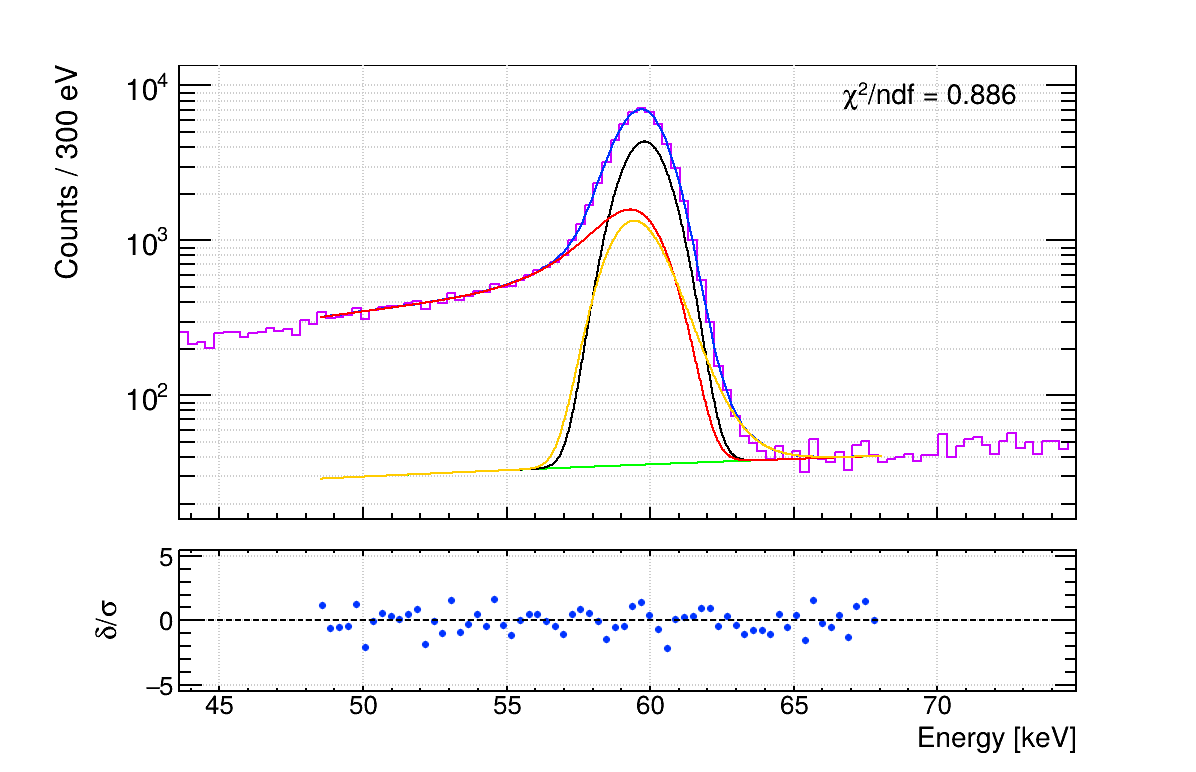
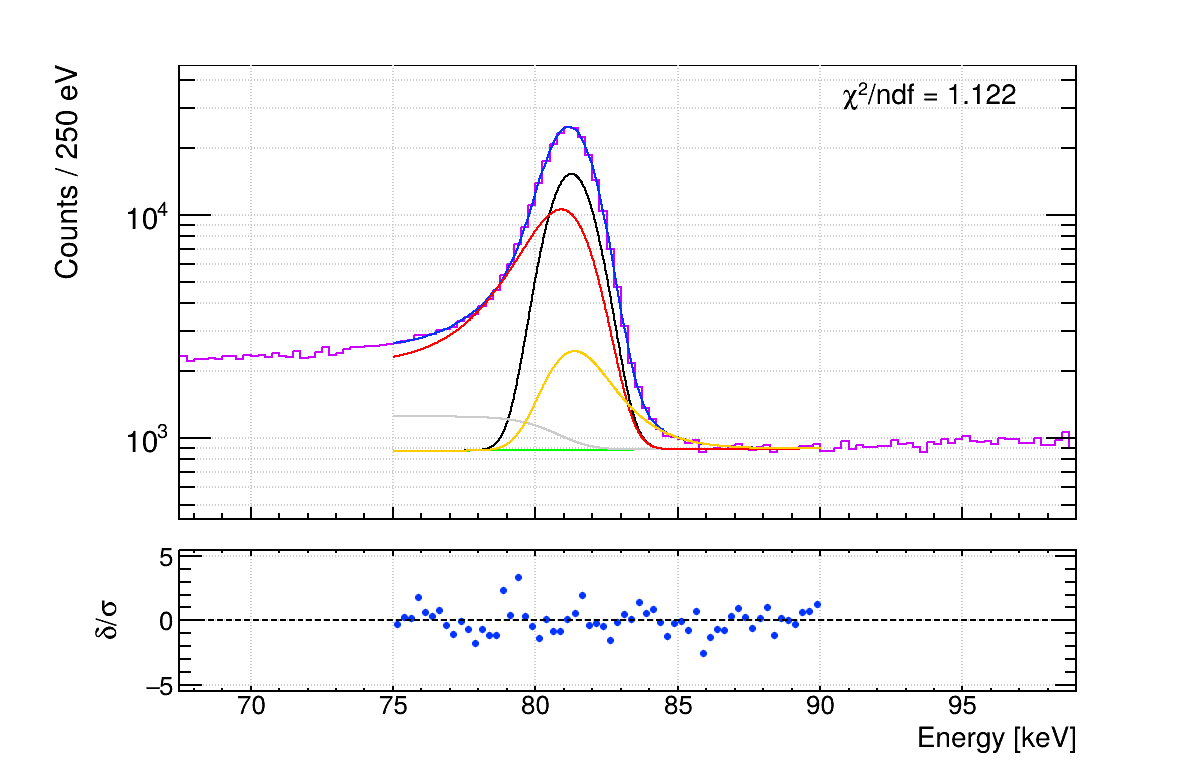
add file name info to gui

diff --git a/src/FittingUtils.cpp b/src/FittingUtils.cpp
@@ -1562,7 +1562,8 @@ FitResult FittingUtils::FitSinglePeak(const TString input_name,
         Bool_t was_batch = gROOT->IsBatch();
         gROOT->SetBatch(kFALSE);
         if (LaunchInteractiveFitEditor(working_hist_, fit_function_,
-                                       fit_range_low_, fit_range_high_, 1)) {
+                                       fit_range_low_, fit_range_high_, 1,
+                                       peak_name + " / " + input_name)) {
           // Sync range back in case user changed it
           Double_t rlo_tmp, rhi_tmp;
           fit_function_->GetRange(rlo_tmp, rhi_tmp);
@@ -2081,7 +2082,8 @@ FitResult FittingUtils::FitDoublePeak(const TString input_name,
         Bool_t was_batch = gROOT->IsBatch();
         gROOT->SetBatch(kFALSE);
         if (LaunchInteractiveFitEditor(working_hist_, fit_function_,
-                                       fit_range_low_, fit_range_high_, 2)) {
+                                       fit_range_low_, fit_range_high_, 2,
+                                       peak_name + " / " + input_name)) {
           Double_t rlo_tmp, rhi_tmp;
           fit_function_->GetRange(rlo_tmp, rhi_tmp);
           fit_range_low_ = rlo_tmp;
@@ -2426,7 +2428,8 @@ FitResult FittingUtils::FitDoublePeak(const TString input_name,
         Bool_t was_batch = gROOT->IsBatch();
         gROOT->SetBatch(kFALSE);
         if (LaunchInteractiveFitEditor(working_hist_, fit_function_,
-                                       fit_range_low_, fit_range_high_, 2)) {
+                                       fit_range_low_, fit_range_high_, 2,
+                                       peak_name + " / " + input_name)) {
           Double_t rlo_tmp, rhi_tmp;
           fit_function_->GetRange(rlo_tmp, rhi_tmp);
           fit_range_low_ = rlo_tmp;
@@ -2799,7 +2802,8 @@ FitResult FittingUtils::FitTriplePeak(const TString input_name,
         Bool_t was_batch = gROOT->IsBatch();
         gROOT->SetBatch(kFALSE);
         if (LaunchInteractiveFitEditor(working_hist_, fit_function_,
-                                       fit_range_low_, fit_range_high_, 3)) {
+                                       fit_range_low_, fit_range_high_, 3,
+                                       peak_name + " / " + input_name)) {
           Double_t rlo_tmp, rhi_tmp;
           fit_function_->GetRange(rlo_tmp, rhi_tmp);
           fit_range_low_ = rlo_tmp;

diff --git a/src/InteractiveFitEditor.cpp b/src/InteractiveFitEditor.cpp
@@ -11,11 +11,13 @@
 InteractiveFitEditor::InteractiveFitEditor(const TGWindow *parent, TH1 *hist,
                                            TF1 *fit_func, Double_t range_low,
                                            Double_t range_high,
-                                           Int_t num_peaks)
+                                           Int_t num_peaks,
+                                           const TString &info_label)
     : TGMainFrame(parent, 1400, 900) {
 
   hist_ = hist;
   fit_func_ = fit_func;
+  info_label_text_ = info_label;
   range_low_ = range_low;
   range_high_ = range_high;
   original_range_low_ = range_low;
@@ -143,6 +145,16 @@ void InteractiveFitEditor::BuildGUI() {
   main_frame->AddFrame(
       controls, new TGLayoutHints(kLHintsExpandY | kLHintsRight, 2, 2, 2, 2));
 
+
+  if (info_label_text_.Length() > 0) {
+    TGGroupFrame *info_grp =
+        new TGGroupFrame(controls, "Info", kVerticalFrame);
+    controls->AddFrame(info_grp,
+                       new TGLayoutHints(kLHintsExpandX, 3, 3, 3, 3));
+    TGLabel *info_label = new TGLabel(info_grp, info_label_text_);
+    info_grp->AddFrame(info_label,
+                       new TGLayoutHints(kLHintsCenterX, 4, 4, 4, 4));
+  }
 
   TGGroupFrame *range_grp =
       new TGGroupFrame(controls, "Fit Range", kVerticalFrame);
@@ -1023,7 +1035,8 @@ Int_t InteractiveFitEditor::PeakStyle(Int_t peak_idx) {
 
 Bool_t LaunchInteractiveFitEditor(TH1 *hist, TF1 *fit_func,
                                   Double_t range_low, Double_t range_high,
-                                  Int_t num_peaks) {
+                                  Int_t num_peaks,
+                                  const TString &info_label) {
   if (!gClient) {
     std::cerr << "InteractiveFitEditor: GUI not available (gClient is null). "
               << "Make sure you are not in batch mode." << std::endl;
@@ -1031,7 +1044,8 @@ Bool_t LaunchInteractiveFitEditor(TH1 *hist, TF1 *fit_func,
   }
 
   InteractiveFitEditor *editor = new InteractiveFitEditor(
-      gClient->GetRoot(), hist, fit_func, range_low, range_high, num_peaks);
+      gClient->GetRoot(), hist, fit_func, range_low, range_high, num_peaks,
+      info_label);
 
   while (!editor->IsDone()) {
     gSystem->ProcessEvents();

diff --git a/include/InteractiveFitEditor.hpp b/include/InteractiveFitEditor.hpp
@@ -36,6 +36,7 @@ private:
 
   TH1 *hist_;
   TF1 *fit_func_;
+  TString info_label_text_;
   Double_t range_low_;
   Double_t range_high_;
   Double_t original_range_low_;
@@ -116,7 +117,8 @@ private:
 public:
   InteractiveFitEditor(const TGWindow *parent, TH1 *hist, TF1 *fit_func,
                        Double_t range_low, Double_t range_high,
-                       Int_t num_peaks);
+                       Int_t num_peaks,
+                       const TString &info_label = "");
   virtual ~InteractiveFitEditor();
 
   virtual Bool_t ProcessMessage(Long_t msg, Long_t parm1, Long_t parm2);
@@ -131,6 +133,7 @@ public:
 
 Bool_t LaunchInteractiveFitEditor(TH1 *hist, TF1 *fit_func,
                                   Double_t range_low, Double_t range_high,
-                                  Int_t num_peaks = 1);
+                                  Int_t num_peaks,
+                                  const TString &info_label);
 
 #endif

diff --git a/include/FittingUtils.hpp b/include/FittingUtils.hpp
@@ -16,7 +16,8 @@
 // Forward declaration (defined in InteractiveFitEditor.hpp)
 Bool_t LaunchInteractiveFitEditor(TH1 *hist, TF1 *fit_func,
                                   Double_t range_low, Double_t range_high,
-                                  Int_t num_peaks);
+                                  Int_t num_peaks = 1,
+                                  const TString &info_label = "");
 
 namespace FittingFunctions {
 Double_t Gaussian(Double_t *x, Double_t *par);
